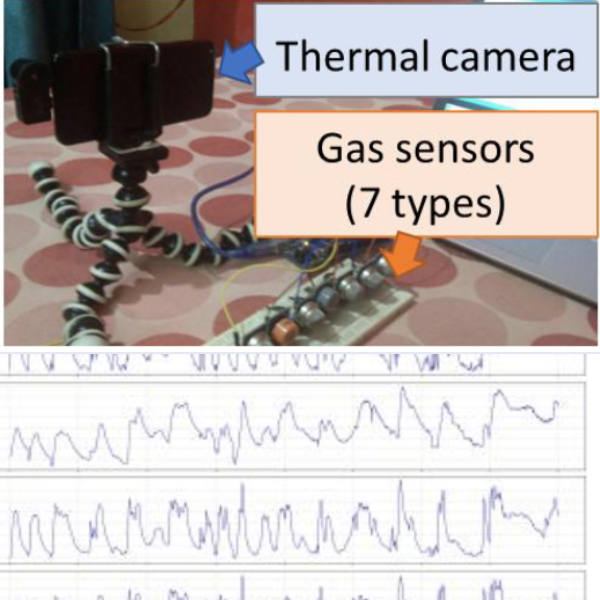
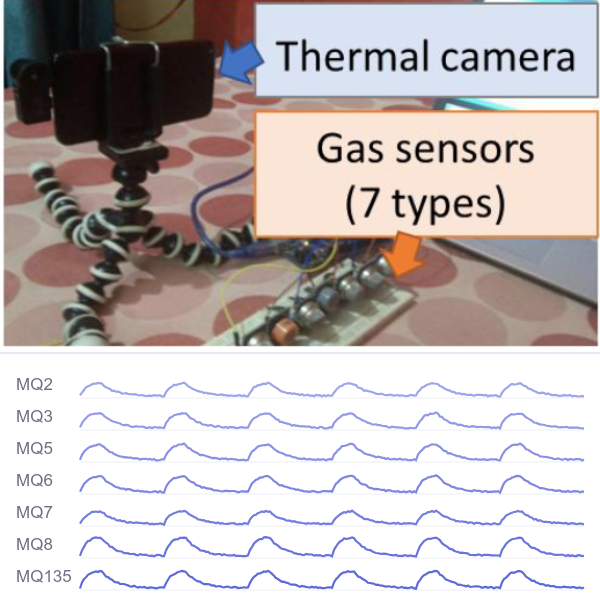
design: P3 썸네일 아래쪽 센서 신호를 선명하게 다시 그림

Changed region(s): [[0.0, 0.57, 0.99, 1.0], [0.15, 0.99, 0.18, 1.0]]

diff --git a/CLAUDE.md b/CLAUDE.md
@@ -77,7 +77,7 @@
 - **사이트 언어는 영어.** profile.json 내용도 영어로 쓴다. 공동저자 영문 표기는 `authors`, 한글은 `authorsKo`에 둔다. log.json 항목은 사용자가 쓴 언어 그대로 둔다.
 - Skills 섹션은 화면에서 뺐다. 데이터는 profile.json 에 남아 있다. Contact 섹션도 없다. 연락처는 헤더 버튼으로 대신한다.
 - 모든 publication과 project에 썸네일 칸이 있다. 파일이 없으면 `/assets/thumb-placeholder.svg`가 보인다.
-  - 논문: `public/assets/publications/P2.gif`처럼 id 이름으로 넣는다. P4.gif는 사용자가 준 실제 로봇 실험 영상(trial_05_posA05.mp4, mp4v 코덱이라 브라우저 재생 불가)을 잘라 만든 GIF다. P2.gif(원본→생성형 증강 예시가 3개 클래스로 바뀜)와 P3.png(실험 장비 사진 + 원시 센서 신호)는 각 논문 PDF의 실제 그림(Fig.1, Fig.2)을 잘라 만든 것이다. 논문 썸네일은 모두 175×175 정사각 칸(cover)이다. 프로젝트 4개는 Claude가 그린 애니메이션 GIF다.
+  - 논문: `public/assets/publications/P2.gif`처럼 id 이름으로 넣는다. P4.gif는 사용자가 준 실제 로봇 실험 영상(trial_05_posA05.mp4, mp4v 코덱이라 브라우저 재생 불가)을 잘라 만든 GIF다. P2.gif(원본→생성형 증강 예시가 3개 클래스로 바뀜)와 P3.png는 각 논문 PDF의 실제 그림을 잘라 만들었다. P3.png는 위쪽이 Fig.1 실험 장비 사진이고, 아래쪽 센서 7종 신호는 PDF 원본이 흐려서 Claude가 다시 그린 것이다. 논문 썸네일은 모두 175×175 정사각 칸(cover)이다. 프로젝트 4개는 Claude가 그린 애니메이션 GIF다.
   - 프로젝트: `public/assets/projects/carnerf.gif`, `etf-with-ai.gif`, `jump-ai-2025.gif`, `personal-color.gif`.
   - 다른 이름이나 확장자를 쓰려면 profile.json 의 `thumb`/`image` 경로를 바꾼다.
 - publication에 `"hidden": true`를 넣으면 데이터에는 남고 화면에서만 빠진다. P1(BMVC 탈락)이 지금 이 상태다. 다시 내려면 `hidden`을 지운다.
